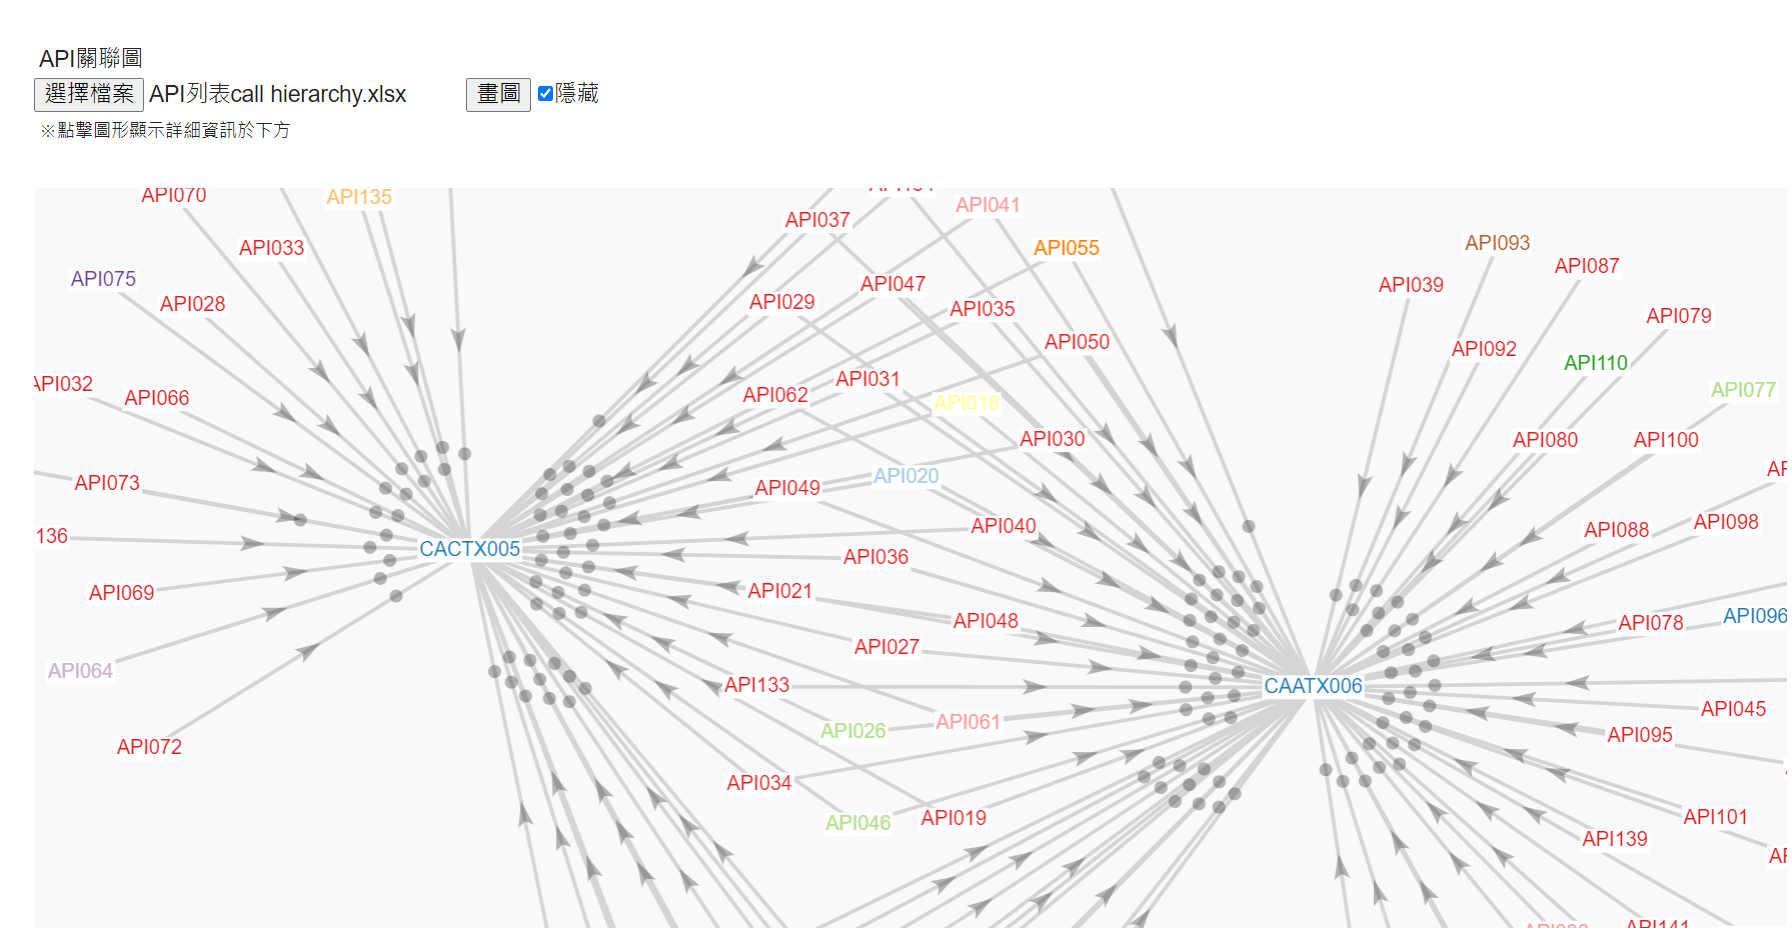
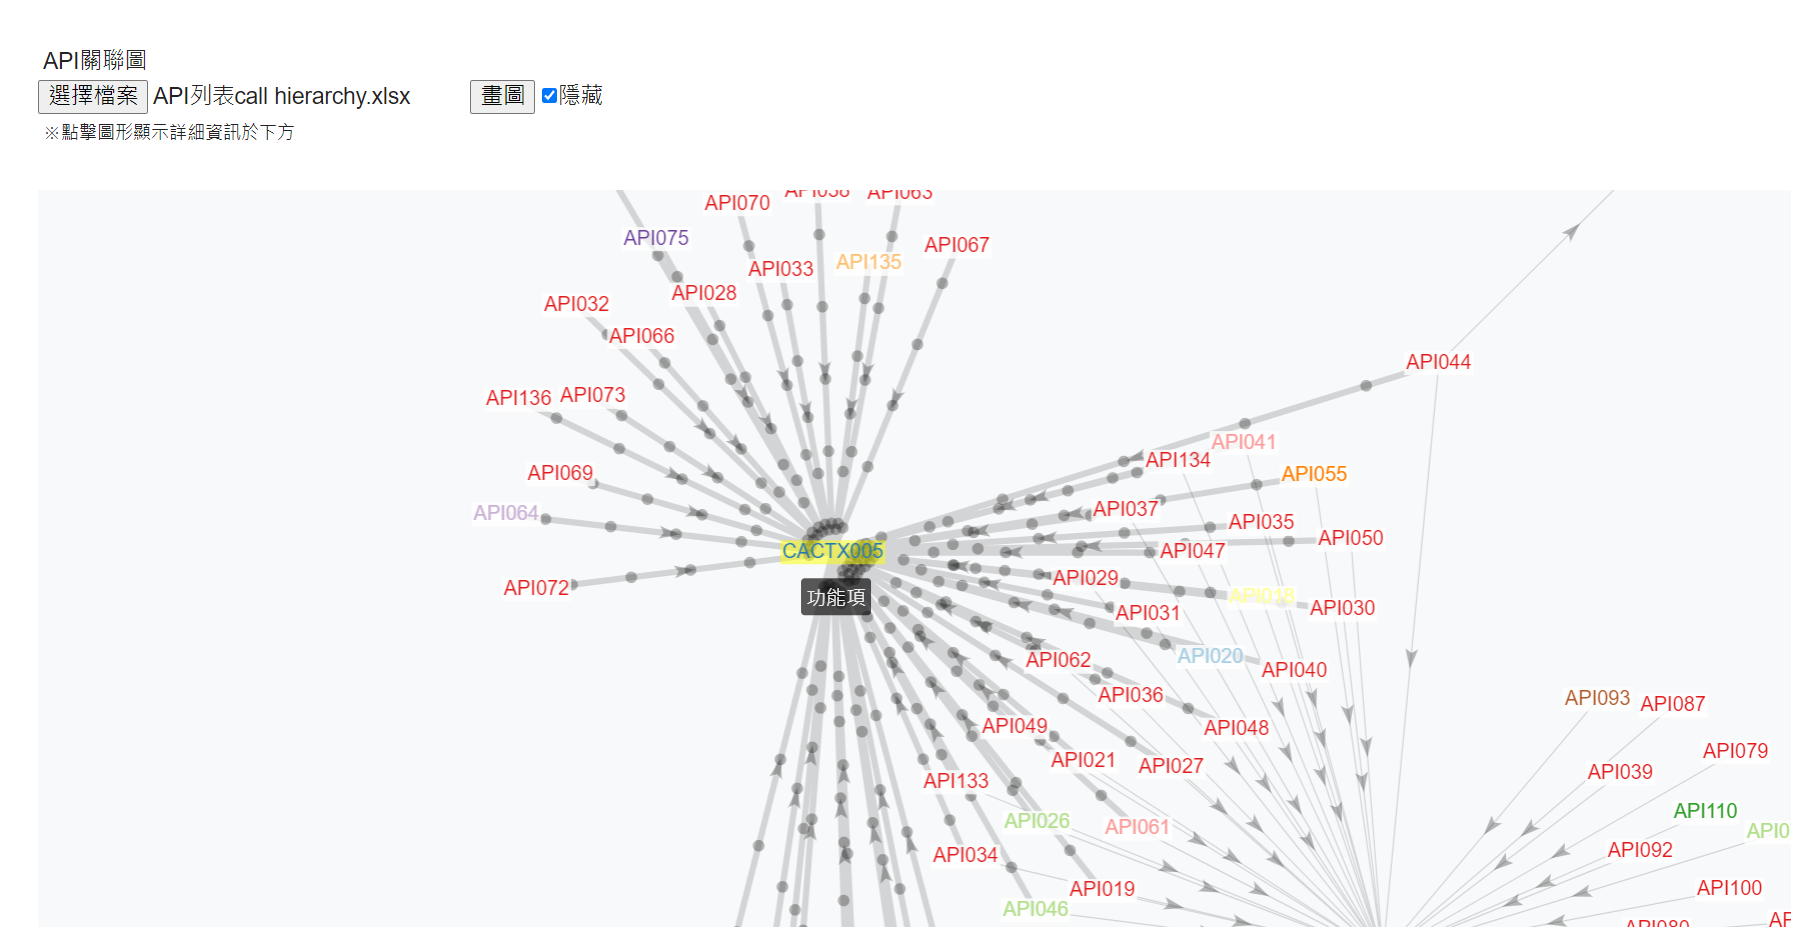
新增選定特效

diff --git a/js/relation-graph.js b/js/relation-graph.js
@@ -19,6 +19,11 @@ function draw(graphObj) {
     console.log("開始畫圖...");
     data = graphDataBuilder(graphObj);
 
+    // 反白節點/關聯
+    const highlightNodes = new Set();
+    const highlightLinks = new Set();
+    let hoverNode = null;
+
     Graph(graph)
         .graphData(data)
         .backgroundColor('#f8f9fa')
@@ -32,6 +37,28 @@ function draw(graphObj) {
             Graph.centerAt(node.x, node.y, 1000);
             Graph.zoom(8, 1500);
         })
+        .onNodeHover(node => {
+            highlightNodes.clear();
+            highlightLinks.clear();
+            if (node) {
+                highlightNodes.add(node);
+                node.neighbors.forEach(neighbor => highlightNodes.add(neighbor));
+                node.links.forEach(link => highlightLinks.add(link));
+            }
+
+            hoverNode = node || null;
+        })
+        .onLinkHover(link => {
+            highlightNodes.clear();
+            highlightLinks.clear();
+
+            if (link) {
+                highlightLinks.add(link);
+                highlightNodes.add(link.source);
+                highlightNodes.add(link.target);
+            }
+        })
+        .autoPauseRedraw(false)
         .nodeAutoColorBy('controller')
         .nodeLabel('memo')
         .nodeCanvasObject((node, ctx, globalScale) => {
@@ -41,11 +68,10 @@ function draw(graphObj) {
             const textWidth = ctx.measureText(label).width;
             const bckgDimensions = [textWidth, fontSize].map(n => n + fontSize * 0.2); // some padding
 
-            ctx.fillStyle = 'rgba(255, 255, 255, 1)';
-
             // 圖形
+            const isSelected = node === hoverNode;
+            ctx.fillStyle = isSelected ? 'rgba(255, 255, 0, 0.5)' : 'rgba(255, 255, 255, 0.8)';
             ctx.fillRect(node.x - bckgDimensions[0] / 2, node.y - bckgDimensions[1] / 2, ...bckgDimensions);
-
             ctx.textAlign = 'center';
             ctx.textBaseline = 'middle';
             ctx.fillStyle = node.color;
@@ -58,10 +84,11 @@ function draw(graphObj) {
             const bckgDimensions = node.__bckgDimensions;
             bckgDimensions && ctx.fillRect(node.x - bckgDimensions[0] / 2, node.y - bckgDimensions[1] / 2, ...bckgDimensions);
         })
-        .linkWidth(3)
+        .linkWidth(link => highlightLinks.has(link) ? 5 : 1)
+        .linkDirectionalParticleWidth(link => highlightLinks.has(link) ? 4 : 0)
         .linkDirectionalArrowLength(3)
-        .linkDirectionalParticles(1)
-        .linkDirectionalParticleSpeed(0.005);
+        .linkDirectionalParticles(5)
+        .linkDirectionalParticleSpeed(0.004);
 
     adjustGraphSize(Graph)
     window.addEventListener('resize', () => {
@@ -105,6 +132,8 @@ function graphDataBuilder(graphs) {
                         "serviceId": ref,
                         "controller": 'reference',
                         "memo": '功能項',
+                        "neighbors": [],
+                        "links": [],
                     };
                     let existed = nodes.filter(n => n.id === ref).length > 0;
                     if (!existed) {
@@ -128,6 +157,17 @@ function graphDataBuilder(graphs) {
         })
     }
 
+    // 記住鄰居節點
+    links.forEach(link => {
+        const a = nodes.filter(n => n.id === link.source)[0];
+        const b = nodes.filter(n => n.id === link.target)[0];
+
+        a.neighbors.push(b);
+        b.neighbors.push(a);
+        a.links.push(link);
+        b.links.push(link);
+    });
+
     return {nodes, links};
 }
 
@@ -150,6 +190,8 @@ function getNodeFrom(graph) {
         "isOpenOutside": graph.isOpenOutside,
         "memo": graph.memo,
         "Reference": graph.Reference,
+        "neighbors": [],
+        "links": []
     };
 }
 
